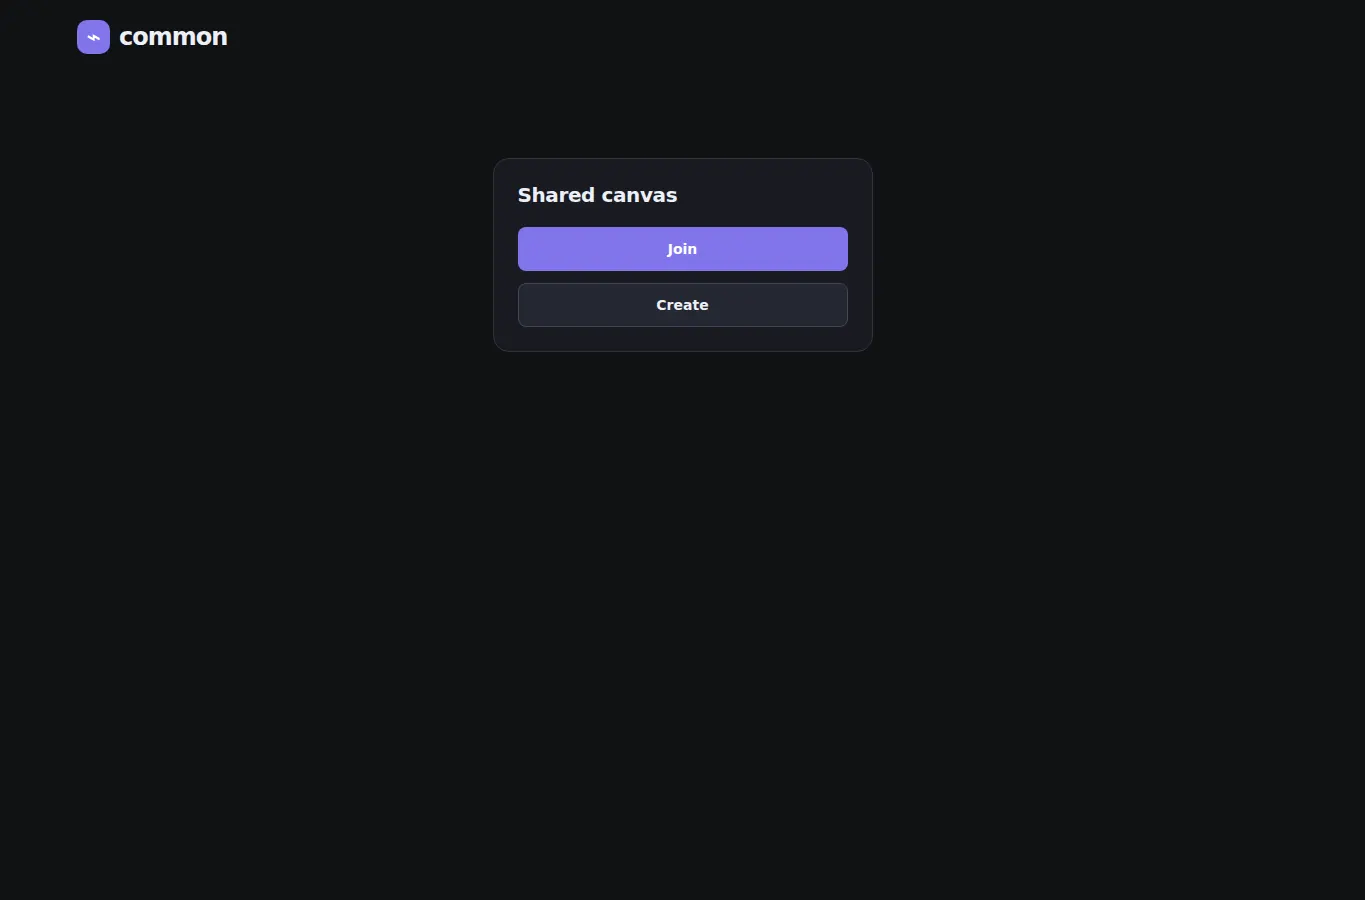
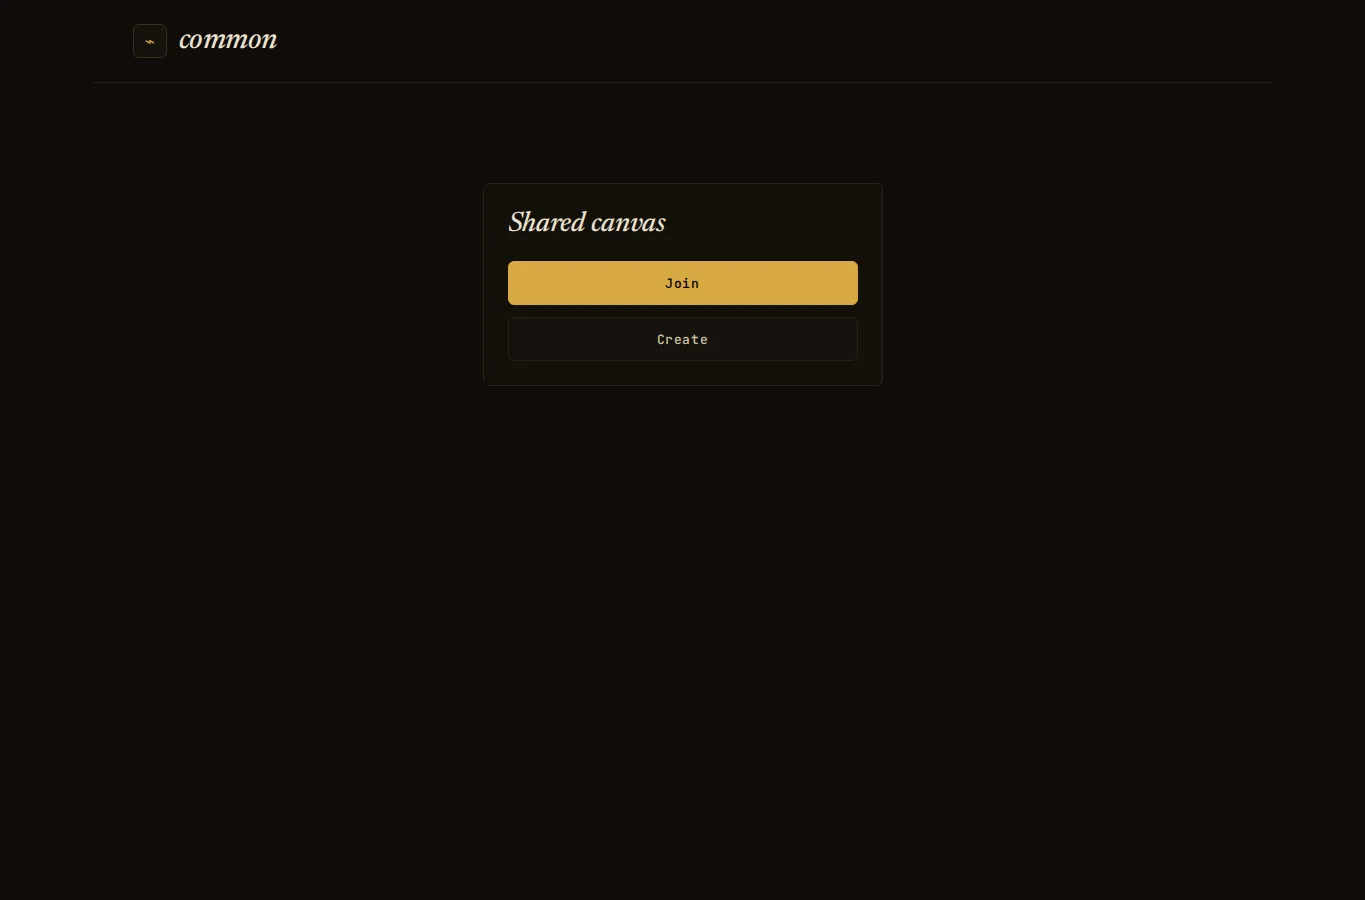
Refresh shared-canvas, better-plume and birdseye-arena previews
Re-captured the restyled games from their live Pages URLs with Playwright
Chromium at the 1365x900 viewport (viewport only), encoded as lossy VP8 WebP
(q80) like the existing previews. Capture date equals the existing global
screenshots.capturedOn (2026-10-18), so metadata is unchanged.

Tests now also check every preview is a complete, non-blank lossy VP8 WebP,
that the three refreshed previews are referenced 1365x900 files, and that the
capture date stays a single global value.

Changed region(s): [[0.3692, 0.1556, 0.6462, 0.4044], [0.0308, 0.0, 0.2154, 0.0622]]

diff --git a/README.md b/README.md
@@ -93,7 +93,7 @@ Checks include: exactly 41 unique entries (names, Pages URLs, repository URLs,
 titles, screenshots); HTTPS-only links and correct repository URLs; no
 `github-pages-directory` self-entry; every repository in its expected primary
 category exactly once, with exactly the expected `alsoIn` secondary memberships; each screenshot path is relative and points at an existing 1365×900
-WebP with no orphans; relative asset paths; only the Google Fonts stylesheet as a
+WebP with no orphans (all complete, non-blank lossy VP8, one global capture date); relative asset paths; only the Google Fonts stylesheet as a
 remote resource; no HTML-injection APIs; and accessibility basics (lang, landmarks,
 labelled search, category dropdown and checkbox group, live status, alt text, focus styles, reduced motion,
 tap targets) plus the snapshot disclaimers in the page and this README. The exact
